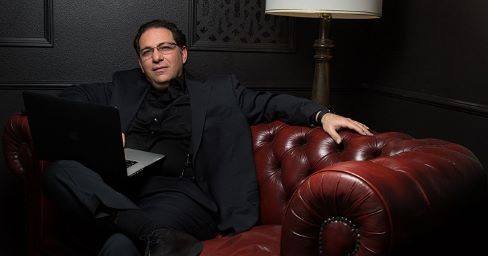
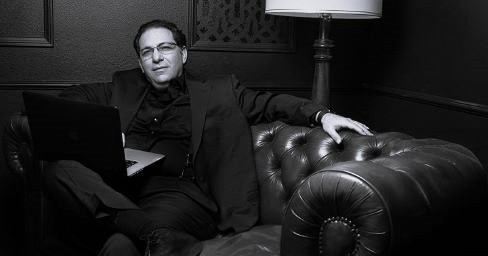
Update site from _site

diff --git a/404.html b/404.html
@@ -40,15 +40,15 @@
 <link rel="canonical" href="https://nima.ninja/404" />
 <meta property="og:url" content="https://nima.ninja/404" />
 <meta property="og:site_name" content="Diaries of a Modern Ninja" />
-<meta property="og:image" content="https://nima.ninja/assets/robot6.png" />
+<meta property="og:image" content="https://nima.ninja/assets/skull6.png" />
 <meta property="og:type" content="website" />
 <meta name="twitter:card" content="summary_large_image" />
-<meta property="twitter:image" content="https://nima.ninja/assets/robot6.png" />
+<meta property="twitter:image" content="https://nima.ninja/assets/skull6.png" />
 <meta property="twitter:title" content="404: Not Found" />
 <meta name="twitter:site" content="@cSh4rk" />
 <meta name="twitter:creator" content="@cSh4rk" />
 <script type="application/ld+json">
-{"@context":"https://schema.org","@type":"WebPage","author":{"@type":"Person","name":"Nima"},"description":"Nima’s Diaries about Cybersecurity, Red Teaming, Tooling, Tutorials, and Personal Notes — Practical Guides, Walkthroughs, and Resources for Curious Minds.","headline":"404: Not Found","image":"https://nima.ninja/assets/robot6.png","url":"https://nima.ninja/404"}</script>
+{"@context":"https://schema.org","@type":"WebPage","author":{"@type":"Person","name":"Nima"},"description":"Nima’s Diaries about Cybersecurity, Red Teaming, Tooling, Tutorials, and Personal Notes — Practical Guides, Walkthroughs, and Resources for Curious Minds.","headline":"404: Not Found","image":"https://nima.ninja/assets/skull6.png","url":"https://nima.ninja/404"}</script>
 <!-- End Jekyll SEO tag -->
 
 </head>
@@ -91,15 +91,20 @@
 
 <article>
   <picture>
-  <source srcset="/assets/robot6.avif" type="image/avif" />
-  <source srcset="/assets/robot6.webp" type="image/webp" />
-  <img src="/assets/robot6.png" width="256" height="384" alt="" loading="eager" fetchpriority="high" />
+  <source srcset="/assets/skull6.avif" type="image/avif" />
+  <source srcset="/assets/skull6.webp" type="image/webp" />
+  <img src="/assets/skull6.png" width="128" height="128" alt="" loading="eager" fetchpriority="high" />
 </picture>
 
 <p><br /></p>
 
 <h2 class="section-intro no-decoration neutral-color">Oops! I cannot find your requested page!</h2>
 <p><a href="/">Go back</a></p>
+
+<p><br /></p>
+<h4 id="references"><em>References</em></h4>
+<hr />
+<p><span class="tiny">Icon by <a href="https://www.flaticon.com/authors/freepik" rel="nofollow">Freepik</a> from <a href="https://www.flaticon.com" rel="nofollow">Flaticon</a></span></p>
 
 </article>
 <br>

diff --git a/about.html b/about.html
@@ -40,15 +40,15 @@
 <link rel="canonical" href="https://nima.ninja/about" />
 <meta property="og:url" content="https://nima.ninja/about" />
 <meta property="og:site_name" content="Diaries of a Modern Ninja" />
-<meta property="og:image" content="https://nima.ninja/assets/mask1.png" />
+<meta property="og:image" content="https://nima.ninja/assets/skull0.png" />
 <meta property="og:type" content="website" />
 <meta name="twitter:card" content="summary_large_image" />
-<meta property="twitter:image" content="https://nima.ninja/assets/mask1.png" />
+<meta property="twitter:image" content="https://nima.ninja/assets/skull0.png" />
 <meta property="twitter:title" content="About Nima — Background &amp; Notes" />
 <meta name="twitter:site" content="@cSh4rk" />
 <meta name="twitter:creator" content="@cSh4rk" />
 <script type="application/ld+json">
-{"@context":"https://schema.org","@type":"WebPage","author":{"@type":"Person","name":"Nima"},"description":"Learn About Nima — Personal Notes, Thoughts, Experiences, and Insights Shared on the Diaries of a Modern Ninja.","headline":"About Nima — Background &amp; Notes","image":"https://nima.ninja/assets/mask1.png","url":"https://nima.ninja/about"}</script>
+{"@context":"https://schema.org","@type":"WebPage","author":{"@type":"Person","name":"Nima"},"description":"Learn About Nima — Personal Notes, Thoughts, Experiences, and Insights Shared on the Diaries of a Modern Ninja.","headline":"About Nima — Background &amp; Notes","image":"https://nima.ninja/assets/skull0.png","url":"https://nima.ninja/about"}</script>
 <!-- End Jekyll SEO tag -->
 
 </head>
@@ -96,9 +96,9 @@
 <hr />
 
 <picture>
-  <source srcset="/assets/mask1.avif" type="image/avif" />
-  <source srcset="/assets/mask1.webp" type="image/webp" />
-  <img src="/assets/mask1.png" width="256" height="256" alt="" loading="eager" fetchpriority="high" />
+  <source srcset="/assets/skull0.avif" type="image/avif" />
+  <source srcset="/assets/skull0.webp" type="image/webp" />
+  <img src="/assets/skull0.png" width="128" height="128" alt="" loading="eager" fetchpriority="high" />
 </picture>
 
 <p>Hello. My name is Nima, Welcome to my Website!</p>
@@ -219,6 +219,11 @@ Still a lot more to learn and experience…</p>
 <h3 id="other-areas-of-interest">Other Areas of Interest</h3>
 <hr />
 <p><code class="language-plaintext highlighter-rouge">Anonymization</code>, <code class="language-plaintext highlighter-rouge">Online Privacy and Invisibility</code>, <code class="language-plaintext highlighter-rouge">OSINT</code>, <code class="language-plaintext highlighter-rouge">Linux</code>, <code class="language-plaintext highlighter-rouge">OS Hardening</code>, <code class="language-plaintext highlighter-rouge">Covert Cyber-Attacks</code>, <code class="language-plaintext highlighter-rouge">Side-Channel Attacks</code>, <code class="language-plaintext highlighter-rouge">Bypassing Air-Gaps</code>, <code class="language-plaintext highlighter-rouge">Automation</code>, <code class="language-plaintext highlighter-rouge">Github and Open-Source Software</code>, <code class="language-plaintext highlighter-rouge">CTFs</code>, <code class="language-plaintext highlighter-rouge">Blockchain</code>, <code class="language-plaintext highlighter-rouge">ICS</code>, <code class="language-plaintext highlighter-rouge">AI</code>, <code class="language-plaintext highlighter-rouge">Quantum Computing</code>, <code class="language-plaintext highlighter-rouge">Neuroscience</code>, <code class="language-plaintext highlighter-rouge">Evolution</code>, <code class="language-plaintext highlighter-rouge">Personal Transformation</code>, <code class="language-plaintext highlighter-rouge">Performance Improvement</code>…</p>
+
+<p><br /></p>
+<h4 id="references"><em>References</em></h4>
+<hr />
+<p><span class="tiny">Icon by <a href="https://www.flaticon.com/authors/wanicon" rel="nofollow">wanicon</a> from <a href="https://www.flaticon.com" rel="nofollow">Flaticon</a></span></p>
 
 </article>
 <br>

diff --git a/blog/index.html b/blog/index.html
@@ -40,15 +40,15 @@
 <link rel="canonical" href="https://nima.ninja/blog/" />
 <meta property="og:url" content="https://nima.ninja/blog/" />
 <meta property="og:site_name" content="Diaries of a Modern Ninja" />
-<meta property="og:image" content="https://nima.ninja/blog/assets/robot1.png" />
+<meta property="og:image" content="https://nima.ninja/blog/assets/skull1.png" />
 <meta property="og:type" content="website" />
 <meta name="twitter:card" content="summary_large_image" />
-<meta property="twitter:image" content="https://nima.ninja/blog/assets/robot1.png" />
+<meta property="twitter:image" content="https://nima.ninja/blog/assets/skull1.png" />
 <meta property="twitter:title" content="Tech Insights &amp; Tutorials Blog" />
 <meta name="twitter:site" content="@cSh4rk" />
 <meta name="twitter:creator" content="@cSh4rk" />
 <script type="application/ld+json">
-{"@context":"https://schema.org","@type":"WebPage","author":{"@type":"Person","name":"Nima"},"description":"Read Practical Insights, Tutorials, and Notes on Technology, Cybersecurity, Personal Growth, and More from the Diaries of a Modern Ninja.","headline":"Tech Insights &amp; Tutorials Blog","image":"https://nima.ninja/blog/assets/robot1.png","url":"https://nima.ninja/blog/"}</script>
+{"@context":"https://schema.org","@type":"WebPage","author":{"@type":"Person","name":"Nima"},"description":"Read Practical Insights, Tutorials, and Notes on Technology, Cybersecurity, Personal Growth, and More from the Diaries of a Modern Ninja.","headline":"Tech Insights &amp; Tutorials Blog","image":"https://nima.ninja/blog/assets/skull1.png","url":"https://nima.ninja/blog/"}</script>
 <!-- End Jekyll SEO tag -->
 
 </head>
@@ -91,9 +91,9 @@
 
 <article>
   <picture>
-  <source srcset="/blog/assets/robot1.avif" type="image/avif" />
-  <source srcset="/blog/assets/robot1.webp" type="image/webp" />
-  <img src="/blog/assets/robot1.png" width="256" height="384" alt="" loading="eager" fetchpriority="high" />
+  <source srcset="/blog/assets/skull1.avif" type="image/avif" />
+  <source srcset="/blog/assets/skull1.webp" type="image/webp" />
+  <img src="/blog/assets/skull1.png" width="128" height="128" alt="" loading="eager" fetchpriority="high" />
 </picture>
 
 <p><br /></p>
@@ -501,6 +501,11 @@
     
   
 </section>
+
+<p><br /></p>
+<h4 id="references"><em>References</em></h4>
+<hr />
+<p><span class="tiny">Icon by <a href="https://www.flaticon.com/authors/maxicons" rel="nofollow">max.icons</a> from <a href="https://www.flaticon.com" rel="nofollow">Flaticon</a></span></p>
 
 </article>
 <br>

diff --git a/books/index.html b/books/index.html
@@ -40,15 +40,15 @@
 <link rel="canonical" href="https://nima.ninja/books/" />
 <meta property="og:url" content="https://nima.ninja/books/" />
 <meta property="og:site_name" content="Diaries of a Modern Ninja" />
-<meta property="og:image" content="https://nima.ninja/books/assets/robot2.png" />
+<meta property="og:image" content="https://nima.ninja/books/assets/skull2.png" />
 <meta property="og:type" content="website" />
 <meta name="twitter:card" content="summary_large_image" />
-<meta property="twitter:image" content="https://nima.ninja/books/assets/robot2.png" />
+<meta property="twitter:image" content="https://nima.ninja/books/assets/skull2.png" />
 <meta property="twitter:title" content="Cybersecurity, Science &amp; Growth Books" />
 <meta name="twitter:site" content="@cSh4rk" />
 <meta name="twitter:creator" content="@cSh4rk" />
 <script type="application/ld+json">
-{"@context":"https://schema.org","@type":"WebPage","author":{"@type":"Person","name":"Nima"},"description":"Discover Nima’s Curated Book Recommendations on Technology, Cybersecurity, Science, Personal Growth, and Other Practical Topics for Learning and Growth.","headline":"Cybersecurity, Science &amp; Growth Books","image":"https://nima.ninja/books/assets/robot2.png","url":"https://nima.ninja/books/"}</script>
+{"@context":"https://schema.org","@type":"WebPage","author":{"@type":"Person","name":"Nima"},"description":"Discover Nima’s Curated Book Recommendations on Technology, Cybersecurity, Science, Personal Growth, and Other Practical Topics for Learning and Growth.","headline":"Cybersecurity, Science &amp; Growth Books","image":"https://nima.ninja/books/assets/skull2.png","url":"https://nima.ninja/books/"}</script>
 <!-- End Jekyll SEO tag -->
 
 </head>
@@ -91,9 +91,9 @@
 
 <article>
   <picture>
-  <source srcset="/books/assets/robot2.avif" type="image/avif" />
-  <source srcset="/books/assets/robot2.webp" type="image/webp" />
-  <img src="/books/assets/robot2.png" width="384" height="256" alt="" loading="eager" fetchpriority="high" />
+  <source srcset="/books/assets/skull2.avif" type="image/avif" />
+  <source srcset="/books/assets/skull2.webp" type="image/webp" />
+  <img src="/books/assets/skull2.png" width="128" height="128" alt="" loading="eager" fetchpriority="high" />
 </picture>
 
 <p><br /></p>
@@ -831,6 +831,11 @@
     
   
 </section>
+
+<p><br /></p>
+<h4 id="references"><em>References</em></h4>
+<hr />
+<p><span class="tiny">Icon by <a href="https://www.flaticon.com/authors/freepik" rel="nofollow">Freepik</a> from <a href="https://www.flaticon.com" rel="nofollow">Flaticon</a></span></p>
 
 </article>
 <br>

diff --git a/contact.html b/contact.html
@@ -40,15 +40,15 @@
 <link rel="canonical" href="https://nima.ninja/contact" />
 <meta property="og:url" content="https://nima.ninja/contact" />
 <meta property="og:site_name" content="Diaries of a Modern Ninja" />
-<meta property="og:image" content="https://nima.ninja/assets/robot5.png" />
+<meta property="og:image" content="https://nima.ninja/assets/skull5.png" />
 <meta property="og:type" content="website" />
 <meta name="twitter:card" content="summary_large_image" />
-<meta property="twitter:image" content="https://nima.ninja/assets/robot5.png" />
+<meta property="twitter:image" content="https://nima.ninja/assets/skull5.png" />
 <meta property="twitter:title" content="Contact Nima — Questions &amp; Feedback" />
 <meta name="twitter:site" content="@cSh4rk" />
 <meta name="twitter:creator" content="@cSh4rk" />
 <script type="application/ld+json">
-{"@context":"https://schema.org","@type":"WebPage","author":{"@type":"Person","name":"Nima"},"description":"Get in Touch with Nima Through Various Channels — Ask Questions, Provide Feedback, or Just Say Hi via the Diaries of a Modern Ninja.","headline":"Contact Nima — Questions &amp; Feedback","image":"https://nima.ninja/assets/robot5.png","url":"https://nima.ninja/contact"}</script>
+{"@context":"https://schema.org","@type":"WebPage","author":{"@type":"Person","name":"Nima"},"description":"Get in Touch with Nima Through Various Channels — Ask Questions, Provide Feedback, or Just Say Hi via the Diaries of a Modern Ninja.","headline":"Contact Nima — Questions &amp; Feedback","image":"https://nima.ninja/assets/skull5.png","url":"https://nima.ninja/contact"}</script>
 <!-- End Jekyll SEO tag -->
 
 </head>
@@ -91,9 +91,9 @@
 
 <article>
   <picture>
-  <source srcset="/assets/robot5.avif" type="image/avif" />
-  <source srcset="/assets/robot5.webp" type="image/webp" />
-  <img src="/assets/robot5.png" width="256" height="256" alt="" loading="eager" fetchpriority="high" />
+  <source srcset="/assets/skull5.avif" type="image/avif" />
+  <source srcset="/assets/skull5.webp" type="image/webp" />
+  <img src="/assets/skull5.png" width="128" height="128" alt="" loading="eager" fetchpriority="high" />
 </picture>
 
 <p><br /></p>
@@ -171,6 +171,11 @@
 <p><br /></p>
 
 <p>For the fastest response, please reach me via my ProtonMail email, as I may not check messages frequently.</p>
+
+<p><br /></p>
+<h4 id="references"><em>References</em></h4>
+<hr />
+<p><span class="tiny">Icon by <a href="https://www.flaticon.com/authors/freepik" rel="nofollow">Freepik</a> from <a href="https://www.flaticon.com" rel="nofollow">Flaticon</a></span></p>
 
 </article>
 <br>

diff --git a/links/index.html b/links/index.html
@@ -40,15 +40,15 @@
 <link rel="canonical" href="https://nima.ninja/links/" />
 <meta property="og:url" content="https://nima.ninja/links/" />
 <meta property="og:site_name" content="Diaries of a Modern Ninja" />
-<meta property="og:image" content="https://nima.ninja/links/assets/robot3.png" />
+<meta property="og:image" content="https://nima.ninja/links/assets/skull3.png" />
 <meta property="og:type" content="website" />
 <meta name="twitter:card" content="summary_large_image" />
-<meta property="twitter:image" content="https://nima.ninja/links/assets/robot3.png" />
+<meta property="twitter:image" content="https://nima.ninja/links/assets/skull3.png" />
 <meta property="twitter:title" content="Curated Tech &amp; Productivity Links" />
 <meta name="twitter:site" content="@cSh4rk" />
 <meta name="twitter:creator" content="@cSh4rk" />
 <script type="application/ld+json">
-{"@context":"https://schema.org","@type":"WebPage","author":{"@type":"Person","name":"Nima"},"description":"Explore Nima’s Curated Web Links and Resources on Technology, Cybersecurity, Productivity, and Life to Help You Learn, Grow, and Stay Inspired.","headline":"Curated Tech &amp; Productivity Links","image":"https://nima.ninja/links/assets/robot3.png","url":"https://nima.ninja/links/"}</script>
+{"@context":"https://schema.org","@type":"WebPage","author":{"@type":"Person","name":"Nima"},"description":"Explore Nima’s Curated Web Links and Resources on Technology, Cybersecurity, Productivity, and Life to Help You Learn, Grow, and Stay Inspired.","headline":"Curated Tech &amp; Productivity Links","image":"https://nima.ninja/links/assets/skull3.png","url":"https://nima.ninja/links/"}</script>
 <!-- End Jekyll SEO tag -->
 
 </head>
@@ -91,9 +91,9 @@
 
 <article>
   <picture>
-  <source srcset="/links/assets/robot3.avif" type="image/avif" />
-  <source srcset="/links/assets/robot3.webp" type="image/webp" />
-  <img src="/links/assets/robot3.png" width="256" height="384" alt="" loading="eager" fetchpriority="high" />
+  <source srcset="/links/assets/skull3.avif" type="image/avif" />
+  <source srcset="/links/assets/skull3.webp" type="image/webp" />
+  <img src="/links/assets/skull3.png" width="128" height="128" alt="" loading="eager" fetchpriority="high" />
 </picture>
 
 <p><br /></p>
@@ -622,6 +622,11 @@
 
   
 </section>
+
+<p><br /></p>
+<h4 id="references"><em>References</em></h4>
+<hr />
+<p><span class="tiny">Icon by <a href="https://www.flaticon.com/authors/freepik" rel="nofollow">Freepik</a> from <a href="https://www.flaticon.com" rel="nofollow">Flaticon</a></span></p>
 
 </article>
 <br>

diff --git a/tags/index.html b/tags/index.html
@@ -40,15 +40,15 @@
 <link rel="canonical" href="https://nima.ninja/tags/" />
 <meta property="og:url" content="https://nima.ninja/tags/" />
 <meta property="og:site_name" content="Diaries of a Modern Ninja" />
-<meta property="og:image" content="https://nima.ninja/assets/robot4.png" />
+<meta property="og:image" content="https://nima.ninja/assets/skull4.png" />
 <meta property="og:type" content="website" />
 <meta name="twitter:card" content="summary_large_image" />
-<meta property="twitter:image" content="https://nima.ninja/assets/robot4.png" />
+<meta property="twitter:image" content="https://nima.ninja/assets/skull4.png" />
 <meta property="twitter:title" content="Browse All Topics &amp; Post Tags" />
 <meta name="twitter:site" content="@cSh4rk" />
 <meta name="twitter:creator" content="@cSh4rk" />
 <script type="application/ld+json">
-{"@context":"https://schema.org","@type":"WebPage","author":{"@type":"Person","name":"Nima"},"description":"Browse All Post Tags and Topics on the Diaries of a Modern Ninja to Easily Find Content on Technology, Cybersecurity, Personal Growth, and More.","headline":"Browse All Topics &amp; Post Tags","image":"https://nima.ninja/assets/robot4.png","url":"https://nima.ninja/tags/"}</script>
+{"@context":"https://schema.org","@type":"WebPage","author":{"@type":"Person","name":"Nima"},"description":"Browse All Post Tags and Topics on the Diaries of a Modern Ninja to Easily Find Content on Technology, Cybersecurity, Personal Growth, and More.","headline":"Browse All Topics &amp; Post Tags","image":"https://nima.ninja/assets/skull4.png","url":"https://nima.ninja/tags/"}</script>
 <!-- End Jekyll SEO tag -->
 
 </head>
@@ -91,9 +91,9 @@
 
 <article>
   <picture>
-  <source srcset="/assets/robot4.avif" type="image/avif" />
-  <source srcset="/assets/robot4.webp" type="image/webp" />
-  <img src="/assets/robot4.png" width="384" height="256" alt="" loading="eager" fetchpriority="high" />
+  <source srcset="/assets/skull4.avif" type="image/avif" />
+  <source srcset="/assets/skull4.webp" type="image/webp" />
+  <img src="/assets/skull4.png" width="128" height="128" alt="" loading="eager" fetchpriority="high" />
 </picture>
 
 <p><br /></p>
@@ -4100,6 +4100,9 @@
 
 <p><br /></p>
 
+<h4 id="references"><em>References</em></h4>
+<hr />
+<p><span class="tiny">Icon by <a href="https://www.flaticon.com/authors/good-ware" rel="nofollow">Good Ware</a> from <a href="https://www.flaticon.com" rel="nofollow">Flaticon</a></span></p>
 
 </article>
 <br>